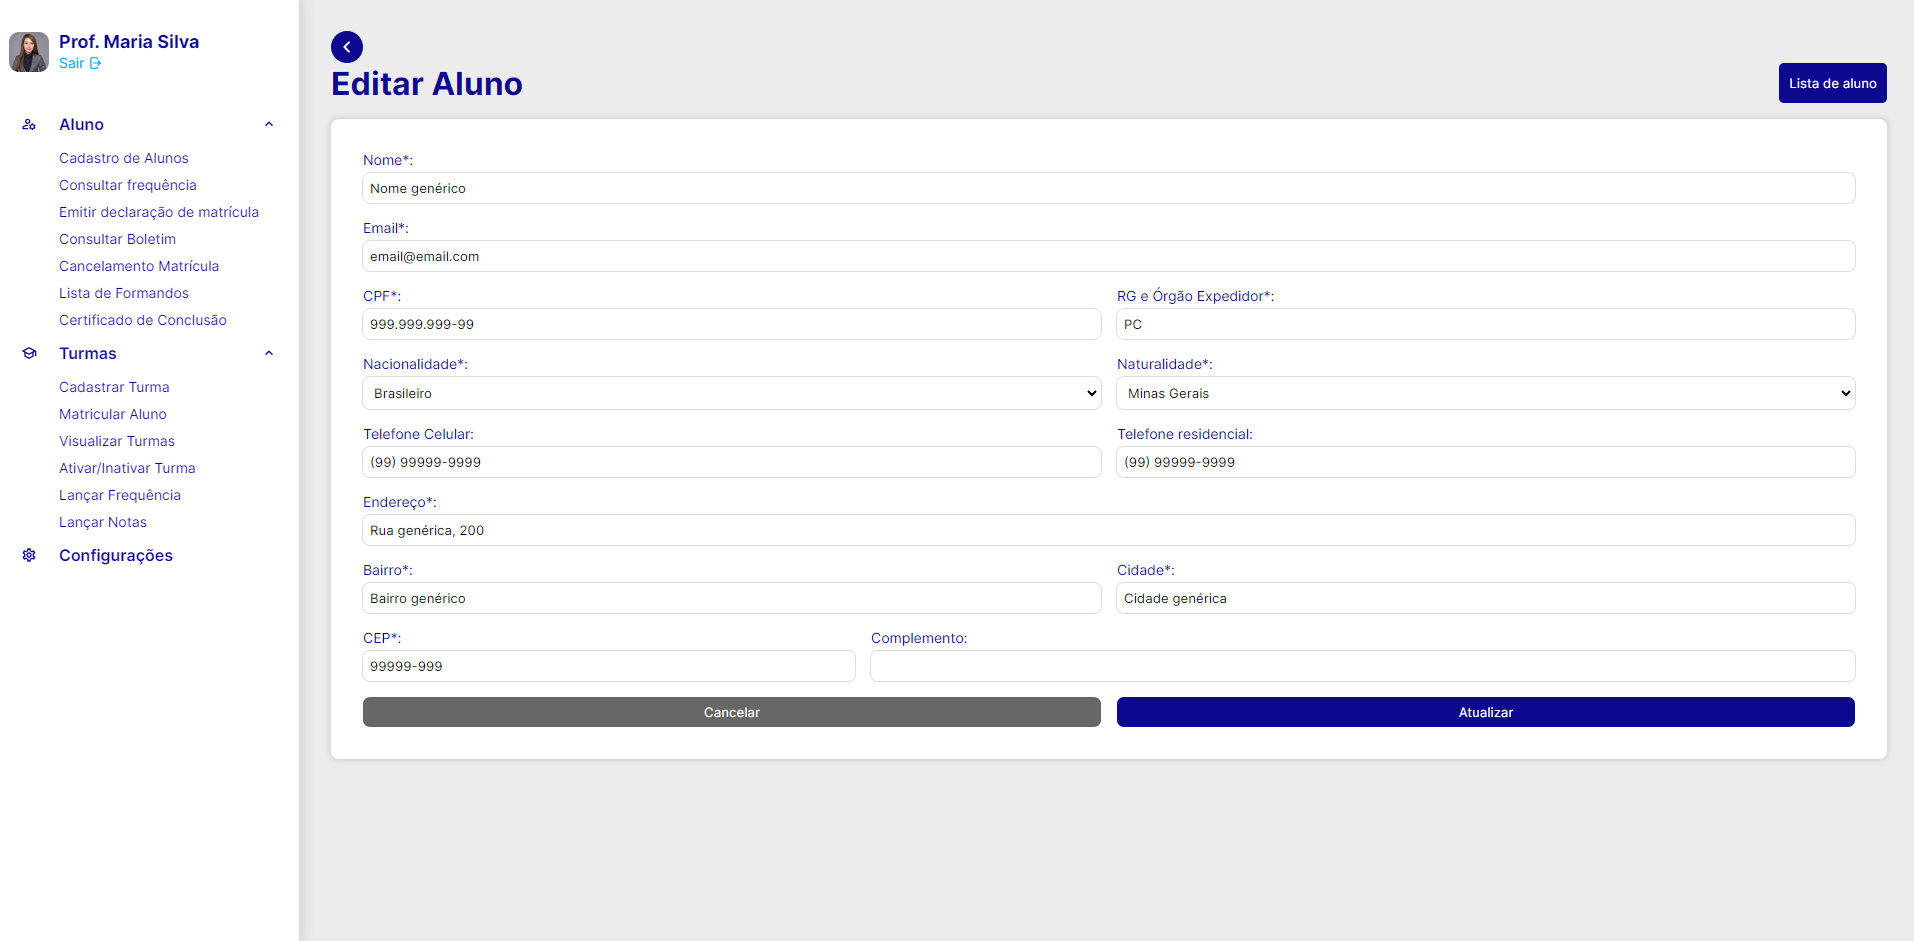
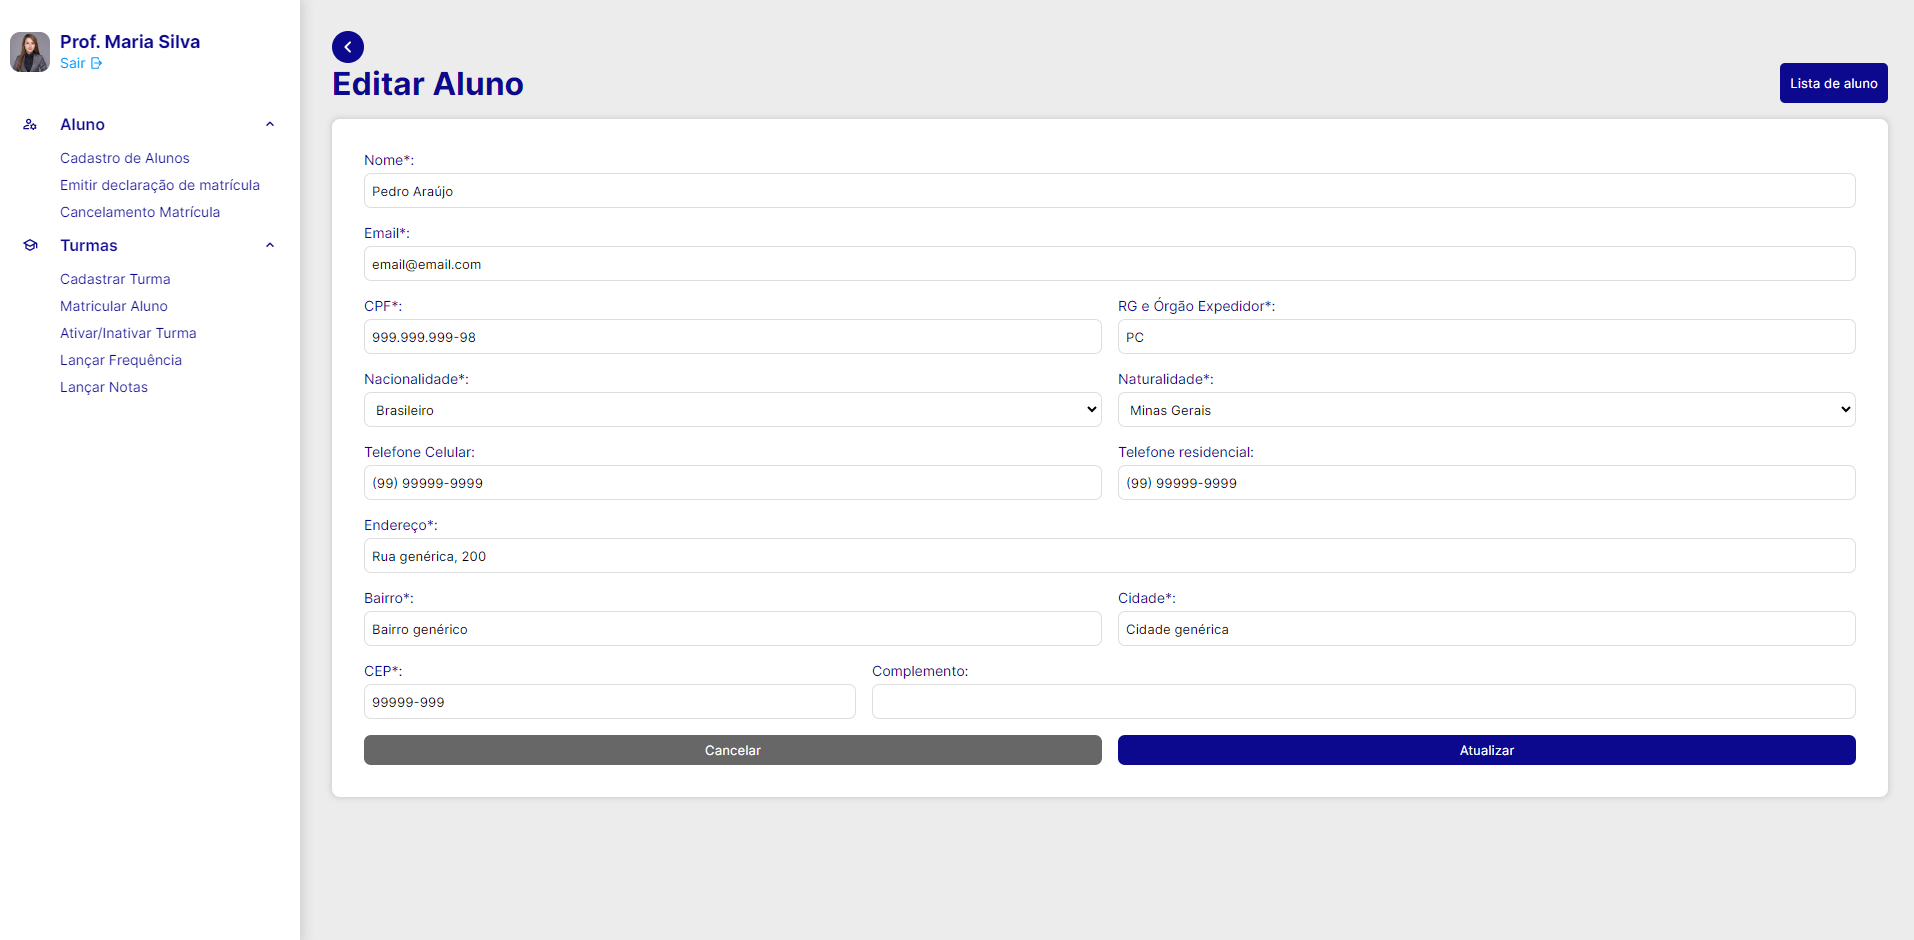
ajuste programação de funcionalidade cancelamento matrícula

diff --git a/documentos/06-Programação de Funcionalidades.md b/documentos/06-Programação de Funcionalidades.md
@@ -571,10 +571,10 @@ Kevin Lucas
 ### Tela Cancelamento Matrícula
 
 ![Cancelamento Matrícula](/documentos/img/telas/cancelamento_matricula.png)
-##### *Tela lista de alunos*
+##### *Tela cancelamento matrícula*
 
 
-#### Requisito atendido
+#### Requisitos atendidos
 
 - RF-03: Deve ser possível desativar a matrícula de um aluno no sistema
 - RF-07: Usuários autorizados devem conseguir cancelar matrícula de um aluno no sistema
